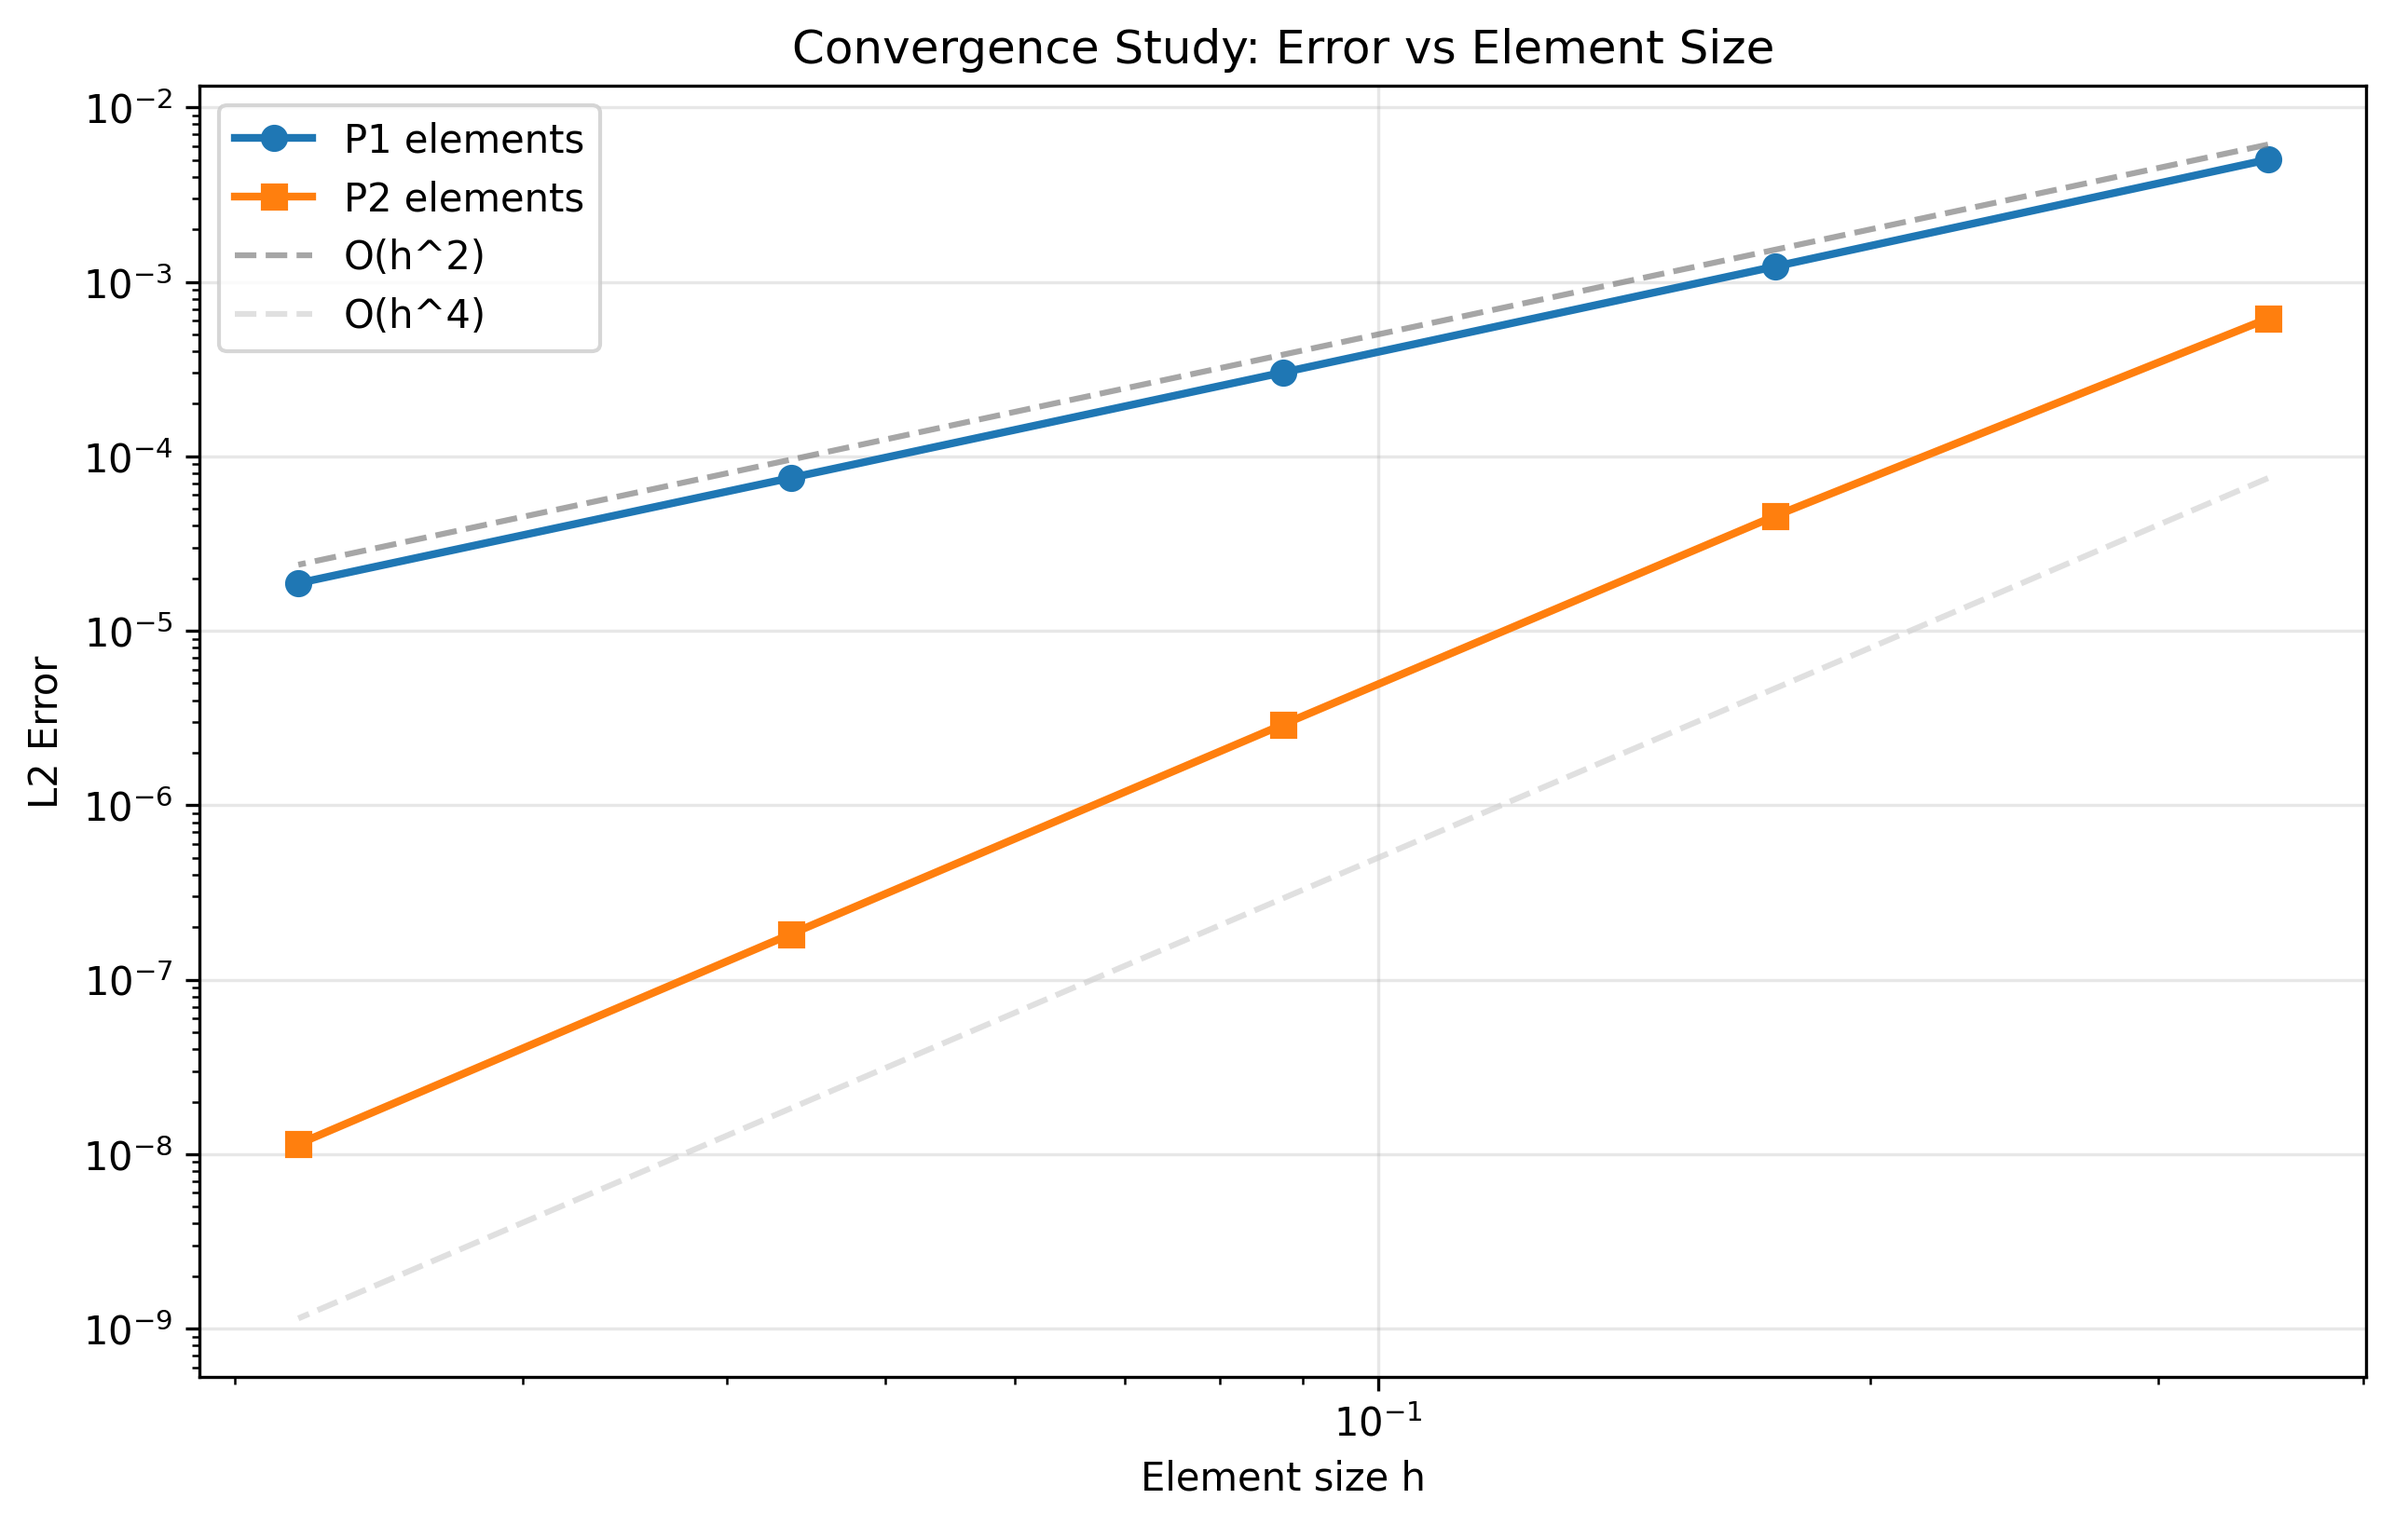
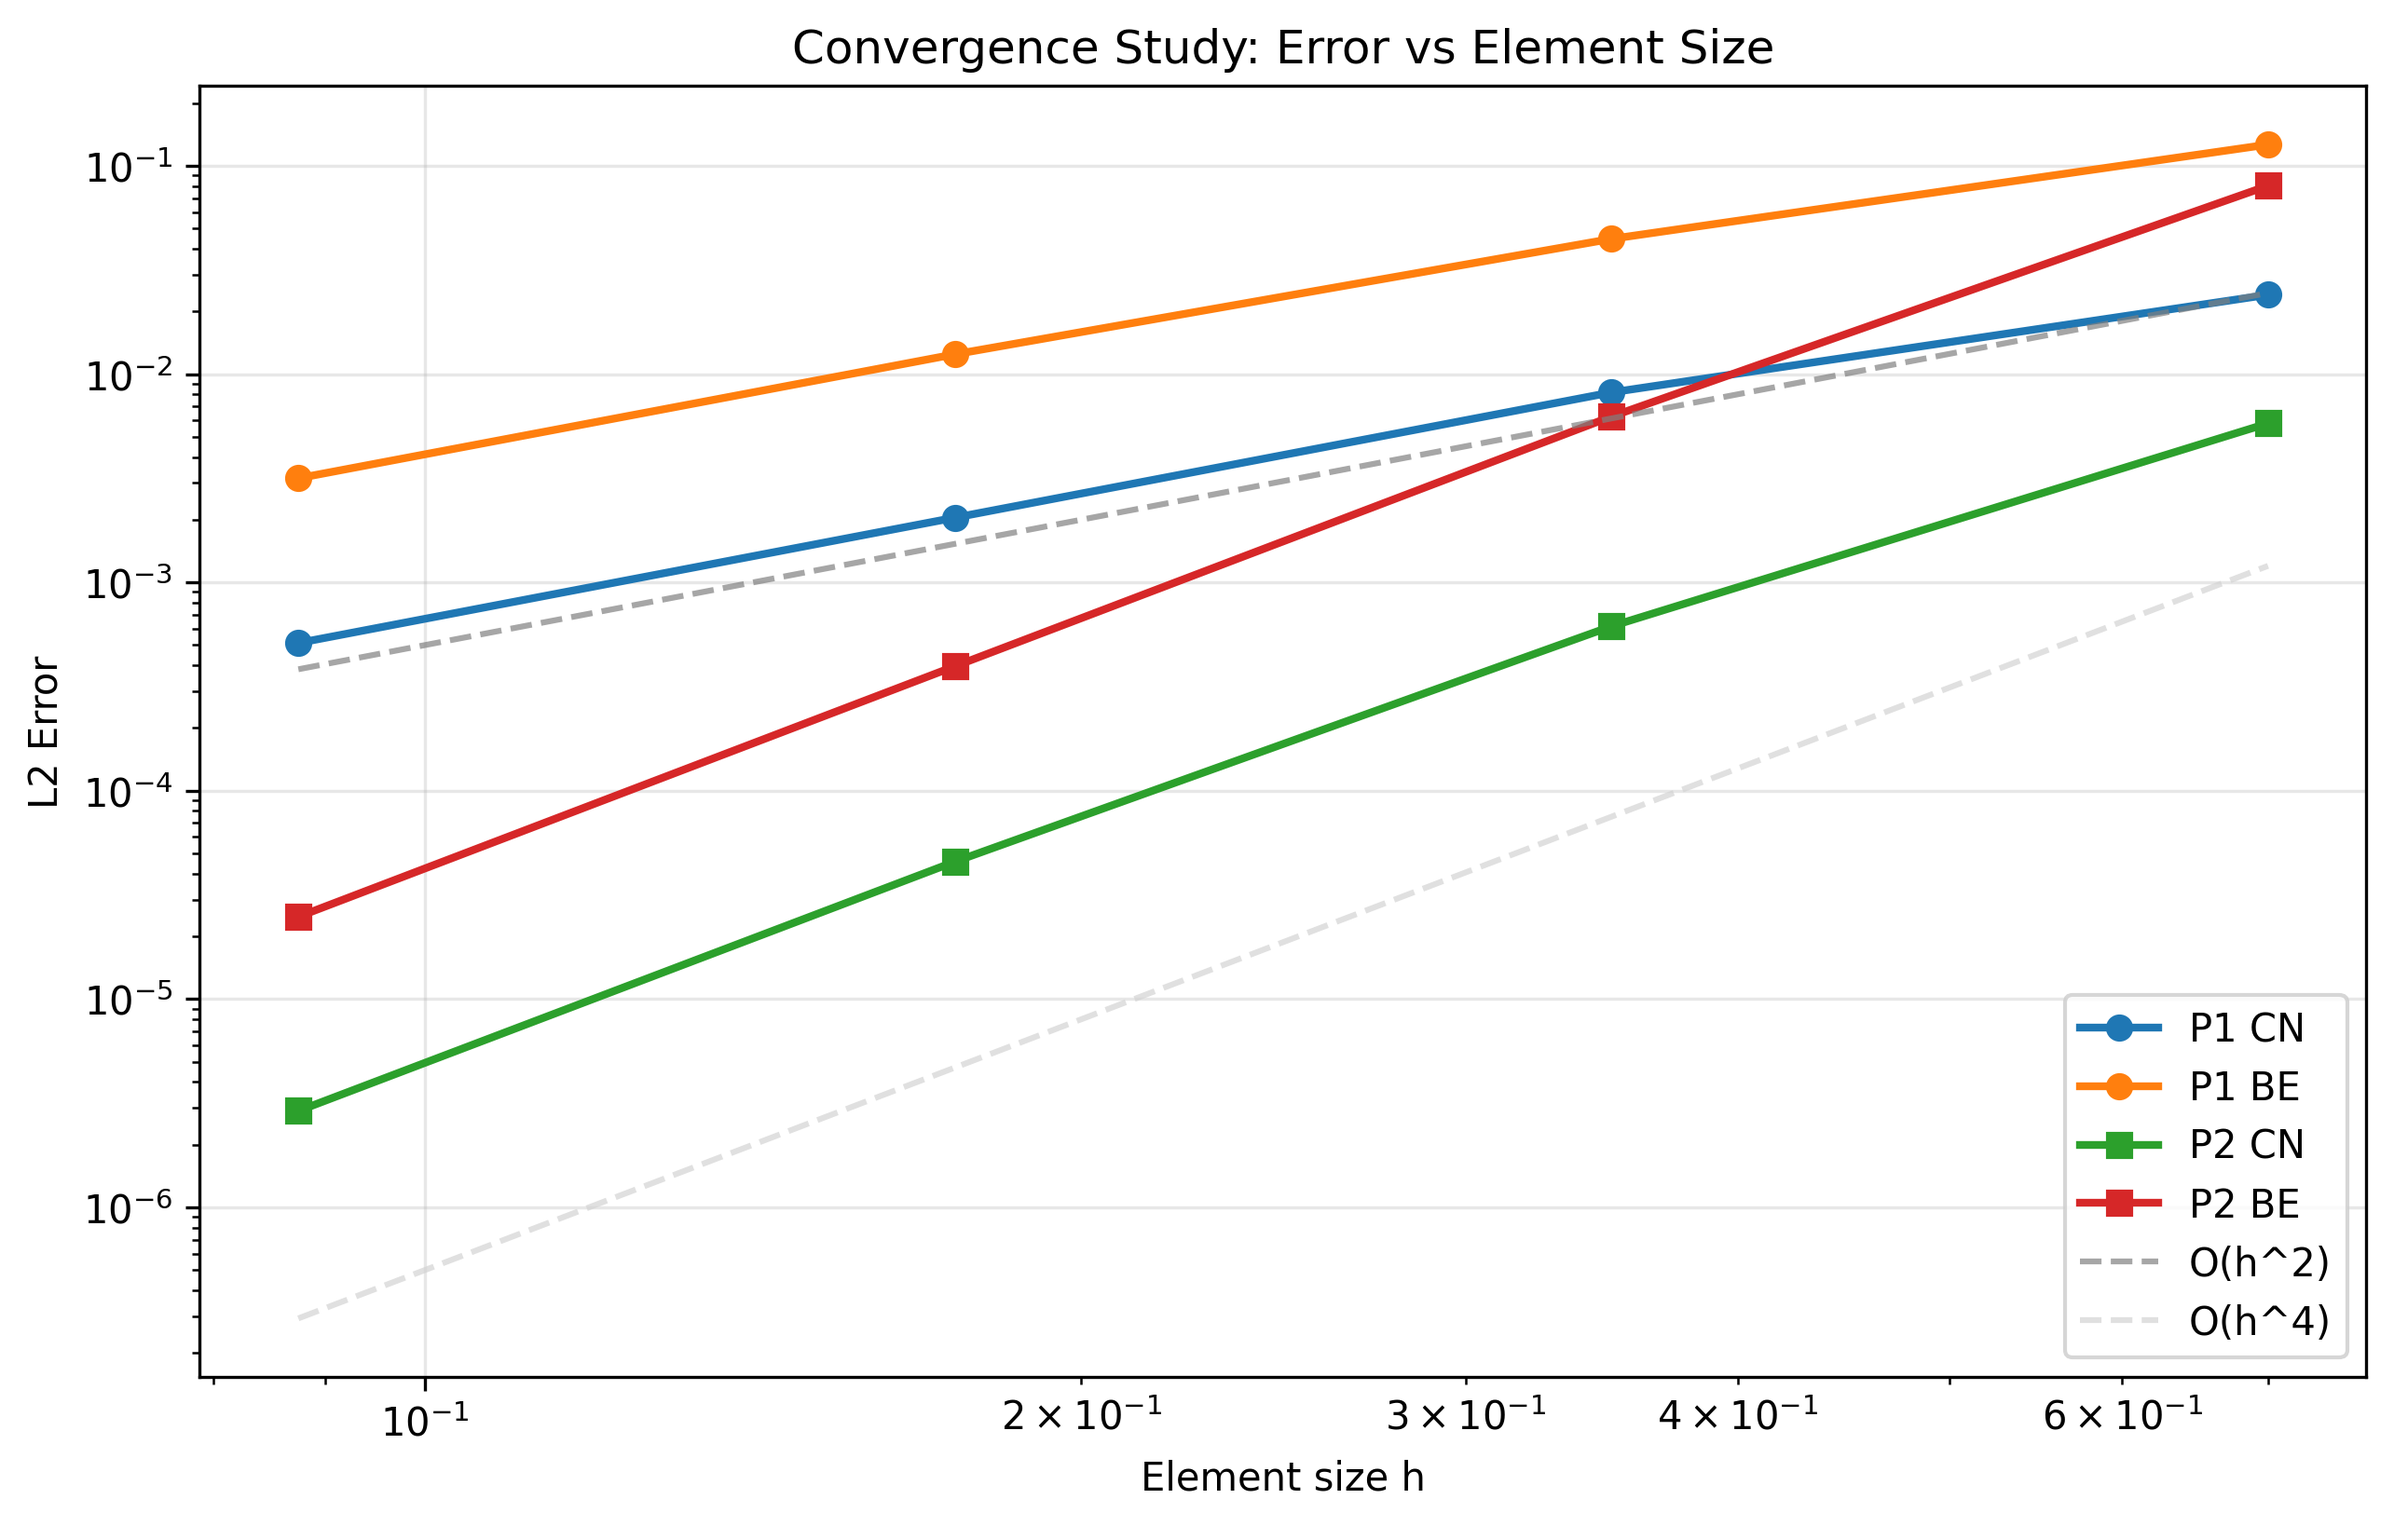
Added convergence study also for backwards euler method

diff --git a/code/main.py b/code/main.py
@@ -14,7 +14,7 @@ COMPUTE_EXAMPLE_1 = True
 COMPUTE_EXAMPLE_2 = True
 COMPUTE_ANALYTICAL = False
 # The convergence study is computationally expensive, so it can be disabled
-COMPUTE_CONVERGENCE_STUDY = False
+COMPUTE_CONVERGENCE_STUDY = True
 
 def assert_order_delta_t_vs_h2(pde, element_count, timesteps_per_element):
     """
@@ -210,9 +210,18 @@ def test_fem_vs_analytical(pde: BaseBlackScholes,
     return errors
 
 
-def convergence_study(pde: BaseBlackScholes, element_counts, timesteps_per_element, numb_quad_points=2):
+def convergence_study(
+    pde: BaseBlackScholes,
+    element_counts,
+    schema,
+    element_type,
+    dt_h_power=2,
+    dt_h_factor=1.0,
+    timesteps_per_element=None,
+    numb_quad_points=2
+):
     """
-    Study convergence with respect to mesh refinement.
+    Study convergence with respect to mesh refinement for a given schema and element type.
 
     Parameters
     ----------
@@ -220,91 +229,91 @@ def convergence_study(pde: BaseBlackScholes, element_counts, timesteps_per_eleme
         The PDE instance to use for the convergence study.
     element_counts : list
         List of numbers of elements to test.
-    timesteps : list
-        List of numbers of time steps to use for each element count.
-    
+    schema : str
+        Time-stepping scheme ('CN' or 'BE').
+    element_type : str
+        Element type ('P1' or 'P2').
+    dt_h_power, dt_h_factor : float
+        Power and factor for scaling dt ~ factor * h^power.
+    timesteps_per_element : list or None
+        List of numbers of time steps to use for each element count (overrides scaling if given).
+    numb_quad_points : int
+        Number of quadrature points.
+
     Returns
     -------
-    errors_p1 : list
-        List of L2 errors for P1 elements.
+    h_values : list
+        List of element sizes.
+    errors : list
+        List of L2 errors for each element count.
     """
-     
     print("\n" + "="*18)
-    print("CONVERGENCE STUDY")
+    print(f"CONVERGENCE STUDY: {element_type} {schema}")
     print("="*18)
-    
-    assert_order_delta_t_vs_h2(pde, element_counts, timesteps_per_element)
-    
-    final_time = pde.T
 
-    # Initialize lists to store errors
-    errors_p1 = []
-    errors_p2 = []
-    
-    # Loop over all the element counts and timesteps
+    h_values = [(pde.S_max - pde.S_min) / n for n in element_counts]
+
+    # Compute timesteps if not provided
+    if timesteps_per_element is None:
+        timesteps = []
+        for h in h_values:
+            dt = dt_h_factor * h**dt_h_power
+            timesteps.append(int(np.ceil(pde.T / dt)))
+    else:
+        timesteps = list(timesteps_per_element)
+
+    print(f"{element_type} {schema} scaling: Δt ~ {dt_h_factor:.2g} * h^{dt_h_power}")
+
+    final_time = pde.T
+    errors = []
+
     for i in range(len(element_counts)):
-        print(f"\nTesting with {element_counts[i]} elements...")
-        
-        ### P1 elements ###
-        fem_solver_p1 = FEMSolver(
+        print(f"Testing with {element_counts[i]} elements...")
+        fem_solver = FEMSolver(
             pde,
-            numb_elements=element_counts[i], 
-            element_type='P1',
-            schema='CN', 
+            numb_elements=element_counts[i],
+            element_type=element_type,
+            schema=schema,
             numb_quad_points=numb_quad_points
         )
-        u_history_p1, _ = fem_solver_p1.solve_in_time(timesteps_per_element[i])
-        
-        # Compute analytical solution at FEM nodes for error calculation
-        analytical_p1_at_nodes = pde.true_sol(fem_solver_p1.nodes, final_time)
-        
-        # Compute and store the L2 error directly at nodes
-        error_p1 = np.sqrt(np.mean((u_history_p1[-1] - analytical_p1_at_nodes)**2))
-        errors_p1.append(error_p1)
-        
-        ### P2 elements ###
-        fem_solver_p2 = FEMSolver(
-            pde,
-            numb_elements= element_counts[i], 
-            element_type='P2',
-            schema='CN', 
-            numb_quad_points=4
-        )
-        u_history_p2, _ = fem_solver_p2.solve_in_time(timesteps_per_element[i])
-        
-        # Compute analytical solution at FEM nodes for error calculation
-        analytical_p2_at_nodes = pde.true_sol(fem_solver_p2.nodes, final_time)
+        u_history, _ = fem_solver.solve_in_time(timesteps[i])
+        analytical_at_nodes = pde.true_sol(fem_solver.nodes, final_time)
+        error = np.sqrt(np.mean((u_history[-1] - analytical_at_nodes)**2))
+        errors.append(error)
+        print(f"   {element_type} {schema} L2 Error: {error:.6f}")
 
-        # Compute and store the L2 error directly at nodes
-        error_p2 = np.sqrt(np.mean((u_history_p2[-1] - analytical_p2_at_nodes)**2))
-        errors_p2.append(error_p2)
-        
-        print(f"   P1 L2 Error: {error_p1:.6f}")
-        print(f"   P2 L2 Error: {error_p2:.6f}")
-    
-    # Convert element counts to numpy array for plotting
-    h_values = [(pde.S_max - pde.S_min) / n for n in element_counts]
-    
-    ### Plot convergence results
+    return h_values, errors
+
+def plot_convergence_errors(h_errors_dict, title="Convergence Study: Error vs Element Size", filename=None):
+    """
+    Plot convergence errors for multiple configurations.
+
+    Parameters
+    ----------
+    h_errors_dict : dict
+        Dictionary with keys as labels and values as (h_values, errors) tuples.
+    title : str
+        Plot title.
+    filename : str or None
+        If given, save the plot to this file.
+    """
     plt.figure(figsize=(10, 6))
-    plt.loglog(h_values, errors_p1, 'o-', label='P1 elements', linewidth=2)
-    plt.loglog(h_values, errors_p2, 's-', label='P2 elements', linewidth=2)
-    
-    # Order of convergence lines
-    plt.loglog(h_values, [0.05 * h**2 for h in h_values], '--', 
-               label='O(h^2)', alpha=0.7, color='gray')
-    plt.loglog(h_values, [0.005 * h**4 for h in h_values], '--', 
-               label='O(h^4)', alpha=0.7, color='lightgray')
-    
+    for label, (h_values, errors) in h_errors_dict.items():
+        marker = 'o-' if 'P1' in label else 's-'
+        plt.loglog(h_values, errors, marker, label=label, linewidth=2)
+    # Reference lines
+    all_h = np.concatenate([np.array(hv) for hv, _ in h_errors_dict.values()])
+    h_ref = np.sort(np.unique(all_h))
+    plt.loglog(h_ref, 0.05 * h_ref**2, '--', label='O(h^2)', alpha=0.7, color='gray')
+    plt.loglog(h_ref, 0.005 * h_ref**4, '--', label='O(h^4)', alpha=0.7, color='lightgray')
     plt.xlabel('Element size h')
     plt.ylabel('L2 Error')
-    plt.title('Convergence Study: Error vs Element Size')
+    plt.title(title)
     plt.legend()
     plt.grid(True, alpha=0.3)
-    plt.savefig(f"./code/images/convergence_study_{pde.__class__.__name__}.png", dpi=300, bbox_inches='tight')
+    if filename:
+        plt.savefig(filename, dpi=300, bbox_inches='tight')
     plt.show()
-    
-    return errors_p1, errors_p2
 
 if __name__ == "__main__":
     #####################################
@@ -344,14 +353,22 @@ if __name__ == "__main__":
         
         # Run convergence study to see the error vs. h curve
         if COMPUTE_CONVERGENCE_STUDY:
-            element_counts = [10 * 2**i for i in range(1, 6)]
-            h_values = [(S_max - S_min) / e for e in element_counts]
-            timesteps_per_element = [int(np.ceil(T / (h**2))) for h in h_values]
-            convergence_errors = convergence_study(pde, element_counts, timesteps_per_element, numb_quad_points=10)
-
-        print("\n" + "="*30)
-        print("ANALYSIS COMPLETE FOR PART 1")
-        print("="*30)
+            element_counts = [10 * 2**i for i in range(0, 4)]
+            h_errors_dict = {}
+            # P1 CN
+            h1, e1 = convergence_study(pde, element_counts, schema='CN', element_type='P1', dt_h_power=1, dt_h_factor=1.0, numb_quad_points=5)
+            h_errors_dict['P1 CN'] = (h1, e1)
+            # P1 BE
+            h2, e2 = convergence_study(pde, element_counts, schema='BE', element_type='P1', dt_h_power=2, dt_h_factor=1.0, numb_quad_points=5)
+            h_errors_dict['P1 BE'] = (h2, e2)
+            # P2 CN
+            h3, e3 = convergence_study(pde, element_counts, schema='CN', element_type='P2', dt_h_power=2, dt_h_factor=1.0, numb_quad_points=5)
+            h_errors_dict['P2 CN'] = (h3, e3)
+            # P2 BE
+            h4, e4 = convergence_study(pde, element_counts, schema='BE', element_type='P2', dt_h_power=4, dt_h_factor=1.0, numb_quad_points=5)
+            h_errors_dict['P2 BE'] = (h4, e4)
+            plot_convergence_errors(h_errors_dict, filename=f"./code/images/convergence_study_{pde.__class__.__name__}.png")
+        
 
     #####################################
     ### Question 3, Part 1, Example 2 ###
@@ -390,16 +407,23 @@ if __name__ == "__main__":
         
         # Run convergence study to see the error vs. h curve
         if COMPUTE_CONVERGENCE_STUDY:
-            element_counts = [10 * 2**i for i in range(1, 6)]
-            h_values = [(S_max - S_min) / e for e in element_counts]
-            timesteps_per_element = [int(np.ceil(T / (h**2))) for h in h_values]
-            convergence_errors = convergence_study(pde, element_counts, timesteps_per_element)
+            element_counts = [10 * 2**i for i in range(0, 4)]
+            h_errors_dict = {}
+            # P1 CN
+            h1, e1 = convergence_study(pde, element_counts, schema='CN', element_type='P1', dt_h_power=1, dt_h_factor=1.0)
+            h_errors_dict['P1 CN'] = (h1, e1)
+            # P1 BE
+            h2, e2 = convergence_study(pde, element_counts, schema='BE', element_type='P1', dt_h_power=2, dt_h_factor=1.0)
+            h_errors_dict['P1 BE'] = (h2, e2)
+            # P2 CN
+            h3, e3 = convergence_study(pde, element_counts, schema='CN', element_type='P2', dt_h_power=2, dt_h_factor=1.0)
+            h_errors_dict['P2 CN'] = (h3, e3)
+            # P2 BE
+            h4, e4 = convergence_study(pde, element_counts, schema='BE', element_type='P2', dt_h_power=4, dt_h_factor=1.0)
+            h_errors_dict['P2 BE'] = (h4, e4)
+            plot_convergence_errors(h_errors_dict, filename=f"./code/images/convergence_study_{pde.__class__.__name__}.png")
+        
 
-        print("\n" + "="*30)
-        print("ANALYSIS COMPLETE FOR EXTRA PART")
-        print("="*30)
-    
-    
     ##########################
     ### Question 3, Part 2 ###
     ##########################
@@ -421,10 +445,18 @@ if __name__ == "__main__":
         # Run convergence study to see the error vs. h curve
         if COMPUTE_CONVERGENCE_STUDY:
             element_counts = [200 * 2**i for i in range(1, 5)]
-            h_values = [(S_max - S_min) / e for e in element_counts]
-            timesteps_per_element = [int(np.ceil(T / (h**2))) for h in h_values]
-            convergence_errors = convergence_study(pde, element_counts, timesteps_per_element, numb_quad_points=20)
-
-        print("\n" + "="*30)
-        print("ANALYSIS COMPLETE FOR PART 2")
-        print("="*30)
+            h_errors_dict = {}
+            # P1 CN
+            h1, e1 = convergence_study(pde, element_counts, schema='CN', element_type='P1', dt_h_power=2, dt_h_factor=1.0, numb_quad_points=20)
+            h_errors_dict['P1 CN'] = (h1, e1)
+            # P1 BE
+            h2, e2 = convergence_study(pde, element_counts, schema='BE', element_type='P1', dt_h_power=2, dt_h_factor=1.0, numb_quad_points=20)
+            h_errors_dict['P1 BE'] = (h2, e2)
+            # P2 CN
+            h3, e3 = convergence_study(pde, element_counts, schema='CN', element_type='P2', dt_h_power=4, dt_h_factor=1.0, numb_quad_points=20)
+            h_errors_dict['P2 CN'] = (h3, e3)
+            # P2 BE
+            h4, e4 = convergence_study(pde, element_counts, schema='BE', element_type='P2', dt_h_power=4, dt_h_factor=1.0, numb_quad_points=20)
+            h_errors_dict['P2 BE'] = (h4, e4)
+            plot_convergence_errors(h_errors_dict, filename=f"./code/images/convergence_study_{pde.__class__.__name__}.png")
+        
